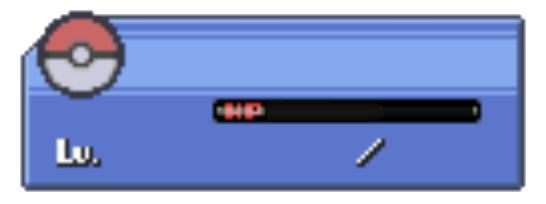
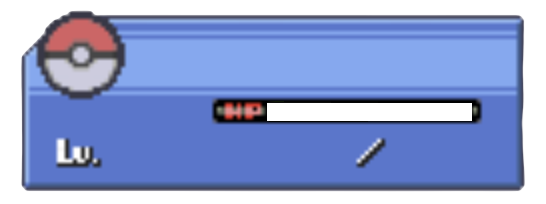
Parte del HP añadida

diff --git a/graphics/battle.cpp b/graphics/battle.cpp
@@ -39,6 +39,18 @@ Battle::Battle(QWidget *parent,Entrenador* _trainer,Entrenador* _user,bool sgenr
     ui->enemigo->hide();
     ui->pokemon_inf->hide();
     ui->pokemon_sup->hide();
+    ui->hp_inf->hide();
+    ui->vida_act->hide();
+    ui->vida_total->hide();
+    ui->vida_inf->hide();
+    ui->vida_inf_fondo->hide();
+    ui->level_inf->hide();
+    ui->pok_inf->hide();
+    ui->hp_sup->hide();
+    ui->vida_sup->hide();
+    ui->vida_sup_fondo->hide();
+    ui->level_sup->hide();
+    ui->pok_sup->hide();
     ui->cuadro_texto->setFont(pokefont);
     // Se obtienen los tamaños de la ventana. (Si todo
     // va normal, debería estar en (0,0),1000x800)
@@ -300,6 +312,11 @@ void Battle::battleStartAnimation(QLabel *fondo) {
     ui->pokemon_sup->show();
     ui->enemigo->hide();
     this->repaint();
+    ui->hp_sup->show();
+    ui->vida_sup->show();
+    ui->vida_sup_fondo->show();
+    ui->level_sup->show();
+    ui->pok_sup->show();
     QThread::msleep(500);
     QMessageBox::information(this,tr("Aprendiz %1").arg(QString::fromStdString(user->getNombre())),tr("¡Adelante %1!").arg(QString::fromStdString((user_poke->getName()))));
     ui->pokemon_inf->setPixmap(path + QString::fromStdString(user_poke->getName()).toLower()+"2"+formato);
@@ -307,11 +324,17 @@ void Battle::battleStartAnimation(QLabel *fondo) {
     ui->pokemon_inf->show();
     ui->avatar->hide();
     this->repaint();
+    ui->hp_inf->show();
+    ui->vida_act->show();
+    ui->vida_total->show();
+    ui->vida_inf->show();
+    ui->vida_inf_fondo->show();
+    ui->level_inf->show();
+    ui->pok_inf->show();
     QThread::msleep(500);
     ui->cuadro_texto->setText("Haz tu movimiento.");
     this->repaint();
     this->repaint();
-
 }
 
 // Método para manejar el cierre de la ventana de forma correcta
@@ -340,4 +363,34 @@ void Battle::setMove(Movimientos* _move){
     _move->getDamage(user_poke,cpu_poke);
     QThread::msleep(500);
     audio.launchSound("attack.wav");
+}
+
+// Animaciones de ataque para los pokemons inferiores
+void Battle::attackAnimationInf(){
+    audio.launchSound("attack.wav");
+    for (int i = 0 ; i <= 15 ; i++){
+        ui->pokemon_inf->setGeometry(40+(170/15)*i,360,381,321);
+        QThread::msleep(25);
+        this->repaint();
+    }
+    for (int i = 15 ; i >= 0 ; i--){
+        ui->pokemon_inf->setGeometry(40+(170/15)*i,360,381,321);
+        QThread::msleep(25);
+        this->repaint();
+    }
+}
+
+// Animaciones de ataque para los pokemons superiores
+void Battle::attackAnimationSup(){
+    audio.launchSound("attack.wav");
+    for (int i = 0 ; i <= 15 ; i++){
+        ui->pokemon_sup->setGeometry(610-(140/15)*i,60+(120/15)*i,321,321);
+        QThread::msleep(25);
+        this->repaint();
+    }
+    for (int i = 15 ; i >= 0 ; i--){
+        ui->pokemon_sup->setGeometry(610-(140/15)*i,60+(120/15)*i,321,321);
+        QThread::msleep(25);
+        this->repaint();
+    }
 }

diff --git a/graphics/battle.h b/graphics/battle.h
@@ -46,6 +46,8 @@ class Battle : public QMainWindow {
         int alto;
         Ui::Battle *ui;
         QLabel* vsAnimation();
+        void attackAnimationInf();
+        void attackAnimationSup();
         void battleStartAnimation(QLabel* fondo);
         void closeEvent(QCloseEvent *event) override;
         Entrenador* user;
